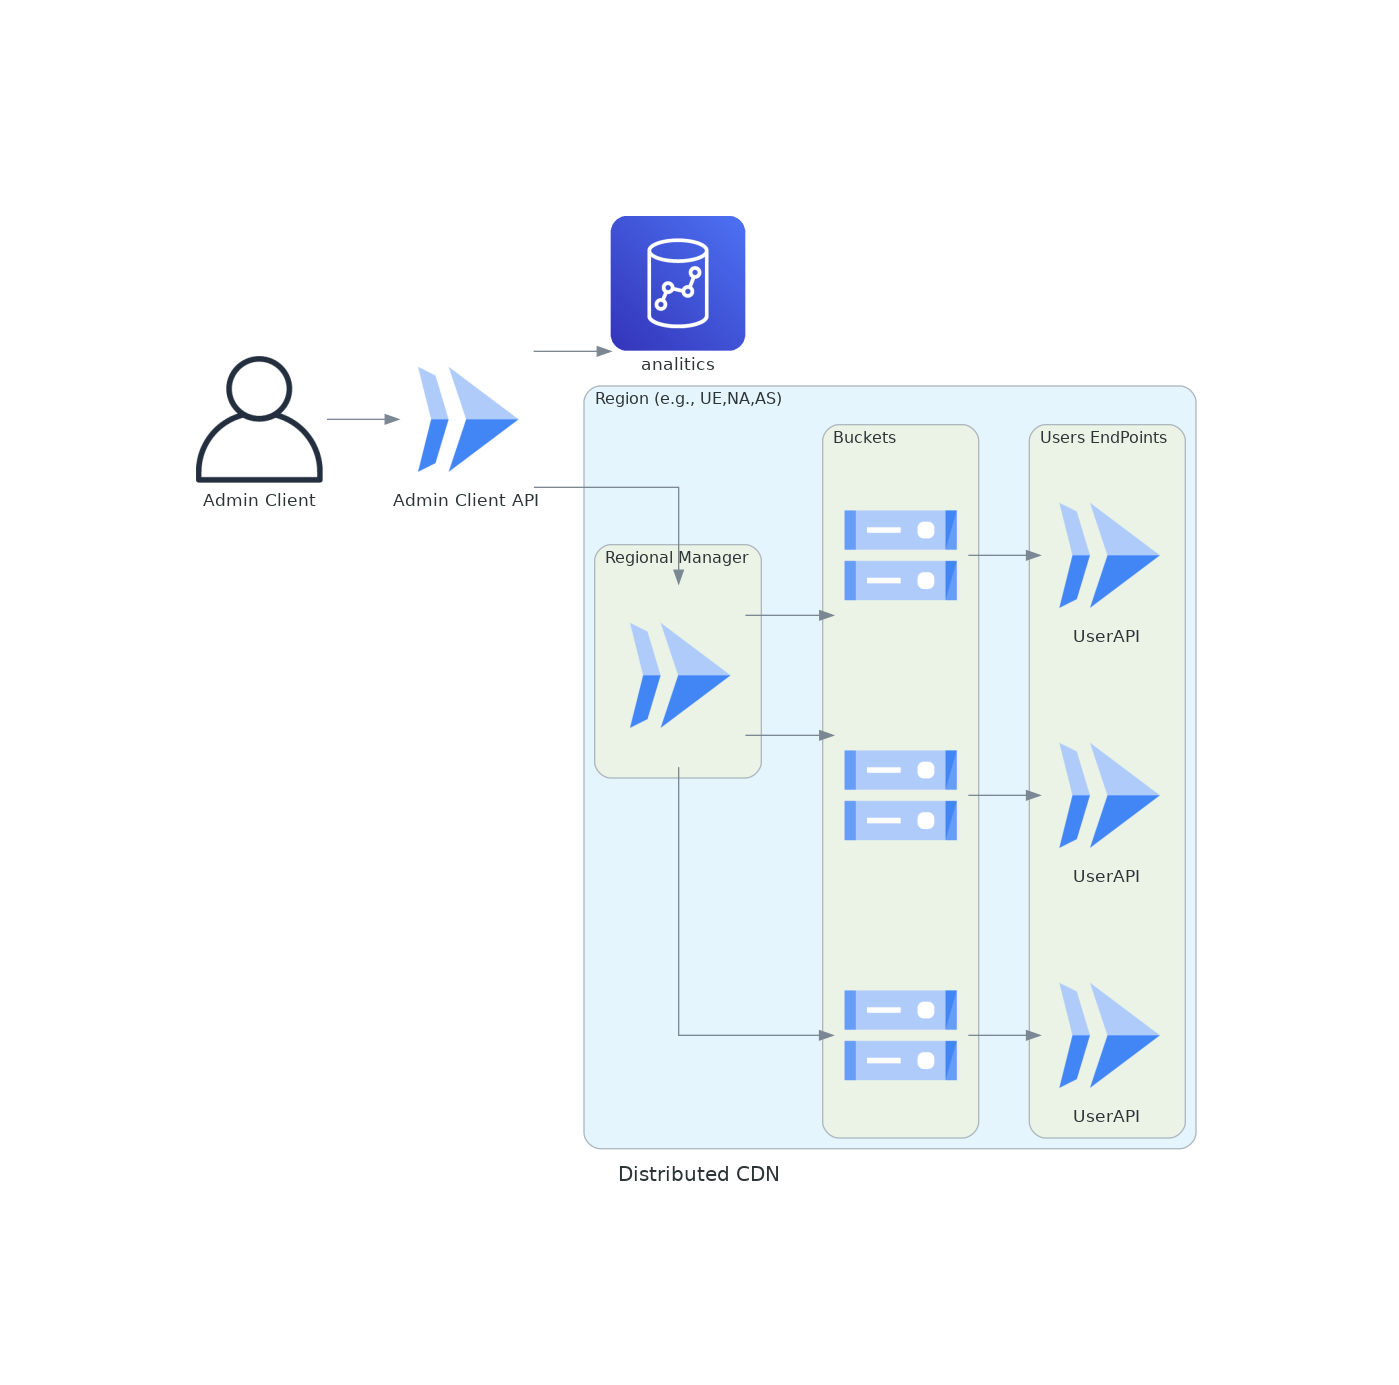
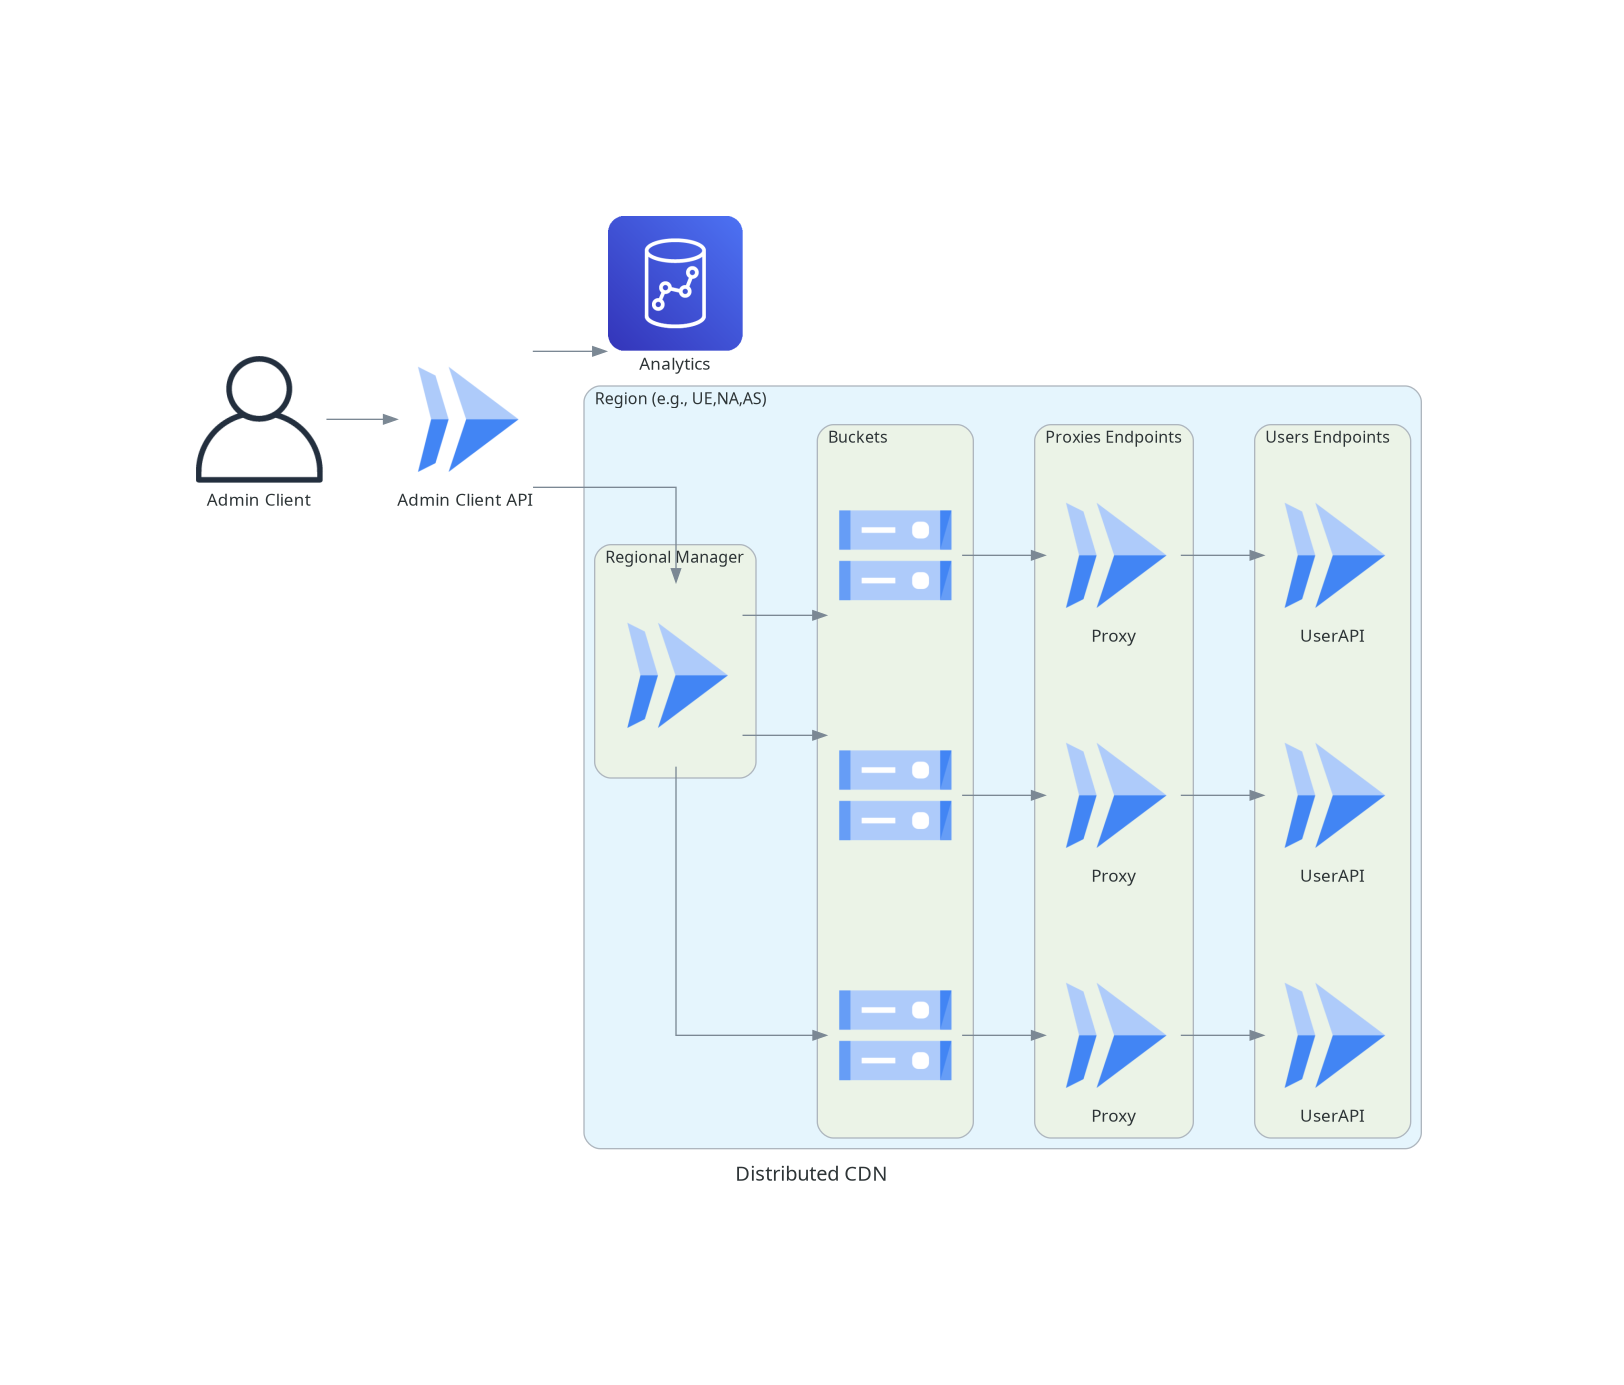
added cond to change the backend server when the request is /, just for testing, updated README

Changed region(s): [[0.1229, 0.1552, 0.8914, 0.8383], [0.4303, 0.8383, 0.5533, 0.8693]]

diff --git a/regional-manager/proxy/app.py b/regional-manager/proxy/app.py
@@ -19,20 +19,22 @@ handler = logging.StreamHandler()
 handler.setFormatter(formatter)
 logging.basicConfig(level=logging.INFO, handlers=[handler])
 
-
 BASE_URL = "https://storage.googleapis.com/"
+
 # List of backend servers
 BACKEND_SERVERS = [
-    "decentrilized-cdn-na-east-1",
+    "decentrilized-cdn-eu-central-2",
     "decentrilized-cdn-eu-west-1"
 ]
 
 # Initialize the round-robin iterator
 RR = itertools.cycle(BACKEND_SERVERS)
 
-
 class ProxyHandler(http.server.BaseHTTPRequestHandler):
 
+    # Initialize the backend_url variable with the first server from the BACKEND_SERVERS list
+    backend_url = next(RR)
+    
     def do_GET(self):
         # Get the URL path from the client request
         url_path = self.path
@@ -42,8 +44,16 @@ class ProxyHandler(http.server.BaseHTTPRequestHandler):
             self.send_error(404)
             return
 
-        
-        backend_url = next(RR)
+        # If a backend server was selected for a non-root path, store it as the last selected backend server
+        if self.path != "/":
+            last_backend_url = self.backend_url
+
+        # If URL path is root, use the current backend server
+        if self.path == "/":
+            backend_url = self.backend_url
+        else:
+            # Select the next backend server in round-robin fashion
+            backend_url = next(RR)
 
         # Construct the full backend URL including the path
         full_backend_url = urllib.parse.urljoin(BASE_URL,  backend_url + url_path)
@@ -58,7 +68,6 @@ class ProxyHandler(http.server.BaseHTTPRequestHandler):
         self.send_response(response.status_code)
         self.send_header("Content-type", response.headers.get('Content-Type'))
         self.send_header("Access-Control-Allow-Origin", "*")
-
         self.end_headers()
         
         # Stream the response content to the client in chunks
@@ -72,6 +81,25 @@ class ProxyHandler(http.server.BaseHTTPRequestHandler):
         logging.info("Path: %s", self.path)
         logging.info("Protocol version: %s", self.request_version)
         logging.info("Headers:\n%s", self.headers)
+    
+    # Prevent all other methods
+    def do_POST(self):
+        self.send_error(405, "Method Not Allowed")
+        
+    def do_PUT(self):
+        self.send_error(405, "Method Not Allowed")
+        
+    def do_PATCH(self):
+        self.send_error(405, "Method Not Allowed")
+        
+    def do_DELETE(self):
+        self.send_error(405, "Method Not Allowed")
+        
+    def do_OPTIONS(self):
+        self.send_error(405, "Method Not Allowed")
+        
+    def do_HEAD(self):
+        self.send_error(405, "Method Not Allowed")
 
 class ThreadedHTTPServer(socketserver.ThreadingMixIn, socketserver.TCPServer):
     pass

diff --git a/diagram/diagram.py b/diagram/diagram.py
@@ -1,7 +1,3 @@
-"""
-Diagram generated using https://github.com/mingrammer/diagrams tool
-Code used to generate the system architecture diagram
-"""
 from diagrams import Cluster, Diagram
 from diagrams.gcp.storage import Storage
 from diagrams.gcp.compute import Run
@@ -14,20 +10,23 @@ with Diagram("Distributed CDN", show=False):
 
     adminClientAPI = Run("Admin Client API")
 
-    dw = Redshift("analitics")
+    dw = Redshift("Analytics")
 
     with Cluster("Region (e.g., UE,NA,AS)"):
         with Cluster("Regional Manager"):
             manager = Run("")
         with Cluster("Buckets"):
             buckets  = [Storage(""), Storage(""), Storage("")]
-
-        with Cluster("Users EndPoints"):
+        with Cluster("Proxies Endpoints"):
+            proxies = [Run("Proxy"), Run("Proxy"), Run("Proxy")]
+        with Cluster("Users Endpoints"):
             userAPIs = [Run("UserAPI"), Run("UserAPI"), Run("UserAPI")]
 
     adminClient >> adminClientAPI
     adminClientAPI >> dw
     adminClientAPI >> manager
     manager >> buckets
-    for bucket, userAPI in zip(buckets, userAPIs):
-        bucket >> userAPI
+    for bucket, proxy in zip(buckets, proxies):
+        bucket >> proxy
+    for proxy, userAPI in zip(proxies, userAPIs):
+        proxy >> userAPI
